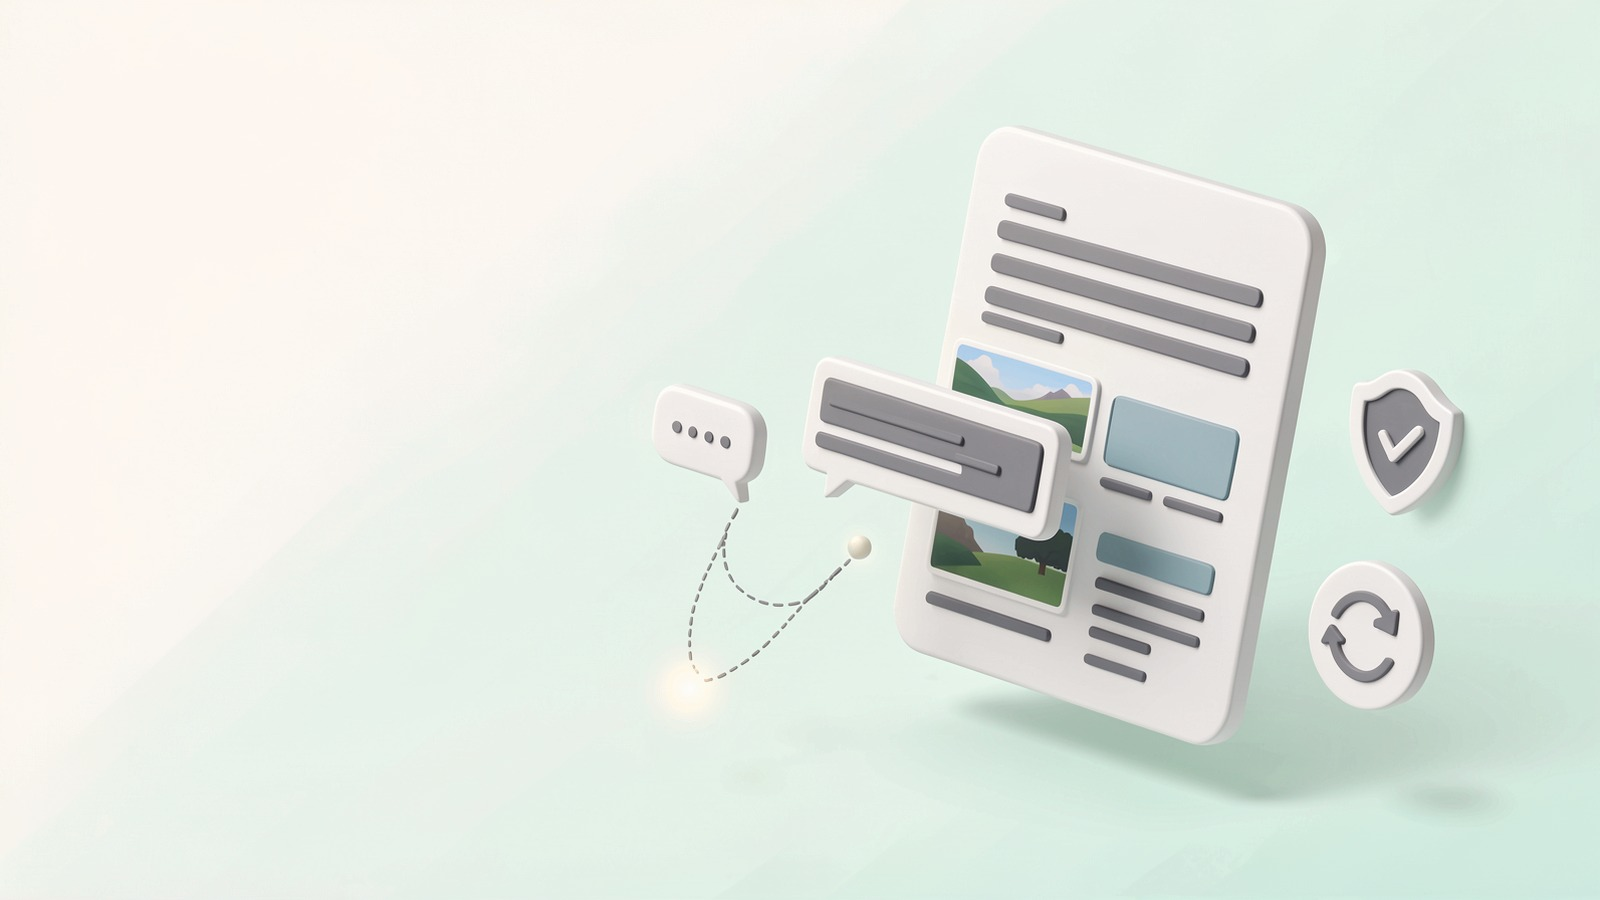
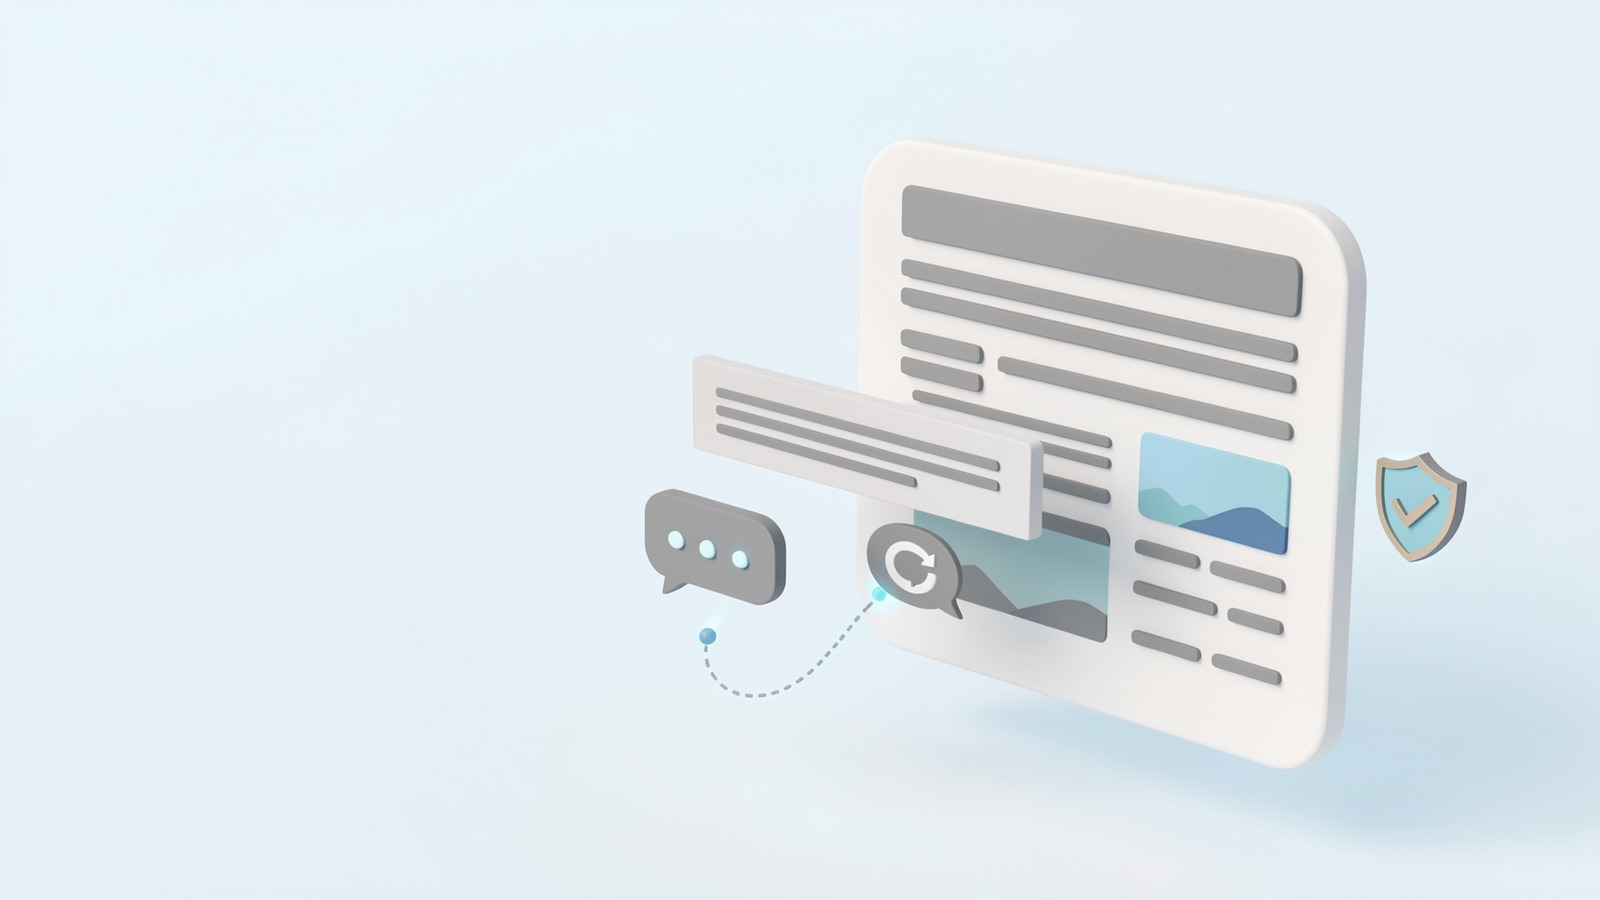
docs: cover in spoko.space navy and blue, no dot in the eyebrow
Backdrops repainted in navy/blue (ComfyUI, seed 21), text in the spoko.space palette (#0d87cd, navy rgb(3 6 32)). Title 112px so it clears the scene.

diff --git a/art/cover.html b/art/cover.html
@@ -13,14 +13,15 @@
 <link rel="preconnect" href="https://fonts.gstatic.com" crossorigin>
 <link href="https://fonts.googleapis.com/css2?family=Inter:wght@400;500;600;700;800;900&family=JetBrains+Mono:wght@400;500&display=swap" rel="stylesheet">
 <style>
+  /* spoko.space palette: brand blue #0d87cd, navy page rgb(3 6 32), heading ink rgb(247 248 248). */
   :root {
-    --bg: #fbfaf7; --glow: rgba(16,185,129,.16);
-    --ink: #0f172a; --muted: #475569; --chip-bg: #fff; --chip-border: #e2e8f0;
-    --accent: #059669; --accent-2: #10b981;
+    --bg: #eef5fb; --glow: rgba(13,135,205,.16);
+    --ink: #030620; --muted: #3d4a63; --chip-bg: #fff; --chip-border: #c9d7e6;
+    --accent: #0a6ca4; --accent-2: #0d87cd;
   }
   .dark {
-    --bg: #0b0f16; --glow: rgba(16,185,129,.16);
-    --ink: #f1f5f9; --muted: #a3b1c2; --chip-bg: #121926; --chip-border: #1f2a3a;
+    --bg: rgb(3 6 32); --glow: rgba(13,135,205,.22);
+    --ink: rgb(247 248 248); --muted: rgb(229 236 246 / 70%); --chip-bg: #0d1733; --chip-border: #1d2a4d;
   }
   * { box-sizing: border-box; margin: 0; }
   html, body { width: 1600px; height: 900px; overflow: hidden; }
@@ -29,7 +30,6 @@
   .dark .backdrop { background-image: url(cover-backdrop-dark.jpg); }
   .intro { position: absolute; left: 96px; top: 96px; width: 760px; }
   .eyebrow { display: flex; align-items: center; gap: 14px; font-weight: 700; letter-spacing: .32em; font-size: 20px; color: var(--muted); }
-  .dot { width: 22px; height: 22px; border-radius: 50%; background: var(--accent-2); box-shadow: 0 0 0 6px var(--glow); }
   /* Bottom-left: what it is built for and who made it. */
   .brands { position: absolute; left: 96px; bottom: 96px; display: flex; align-items: center; gap: 28px; color: var(--ink); }
   .brand { display: flex; align-items: center; gap: 16px; font-size: 30px; font-weight: 700; letter-spacing: -.01em; }
@@ -41,10 +41,10 @@
   .dark .sep { background: rgba(255,255,255,.18); }
   /* spoko.space logo (spoko.space repo, src/assets/images/logo.svg); currentColor follows the theme. */
   .spoko { height: 40px; width: auto; display: block; }
-  h1 { font-size: 128px; line-height: 1; font-weight: 900; letter-spacing: -.04em; margin-top: 30px; white-space: nowrap; }
+  h1 { font-size: 112px; line-height: 1; font-weight: 900; letter-spacing: -.04em; margin-top: 30px; white-space: nowrap; }
   /* The second word carries the gradient. On a coloured dark backdrop use lighter stops, or it vanishes. */
-  h1 .bottom { background: linear-gradient(90deg, #10b981, #0e7490); -webkit-background-clip: text; background-clip: text; color: transparent; }
-  .dark h1 .bottom { background-image: linear-gradient(90deg, #6ee7b7, #22d3ee); }
+  h1 .bottom { background: linear-gradient(90deg, #0d87cd, #0a4f8a); -webkit-background-clip: text; background-clip: text; color: transparent; }
+  .dark h1 .bottom { background-image: linear-gradient(90deg, #7dd3fc, #0d87cd); }
   .tagline { margin-top: 30px; font-size: 30px; line-height: 1.45; color: var(--muted); text-wrap: balance; }
   .tagline strong { color: var(--ink); font-weight: 700; }
   /* Optional extras; only add them if the backdrop leaves room (they ran into the scene before). */
@@ -58,7 +58,7 @@
 <body>
   <div class="backdrop"></div>
   <section class="intro">
-    <div class="eyebrow"><span class="dot"></span>WORDPRESS PLUGIN</div>
+    <div class="eyebrow">WORDPRESS PLUGIN</div>
     <h1><span class="top">Content</span> <span class="bottom">MCP</span></h1>
     <p class="tagline">AI agents edit WordPress posts<br><strong>block by block</strong>, with a hash check<br>and a revision on every save.</p>
   </section>
